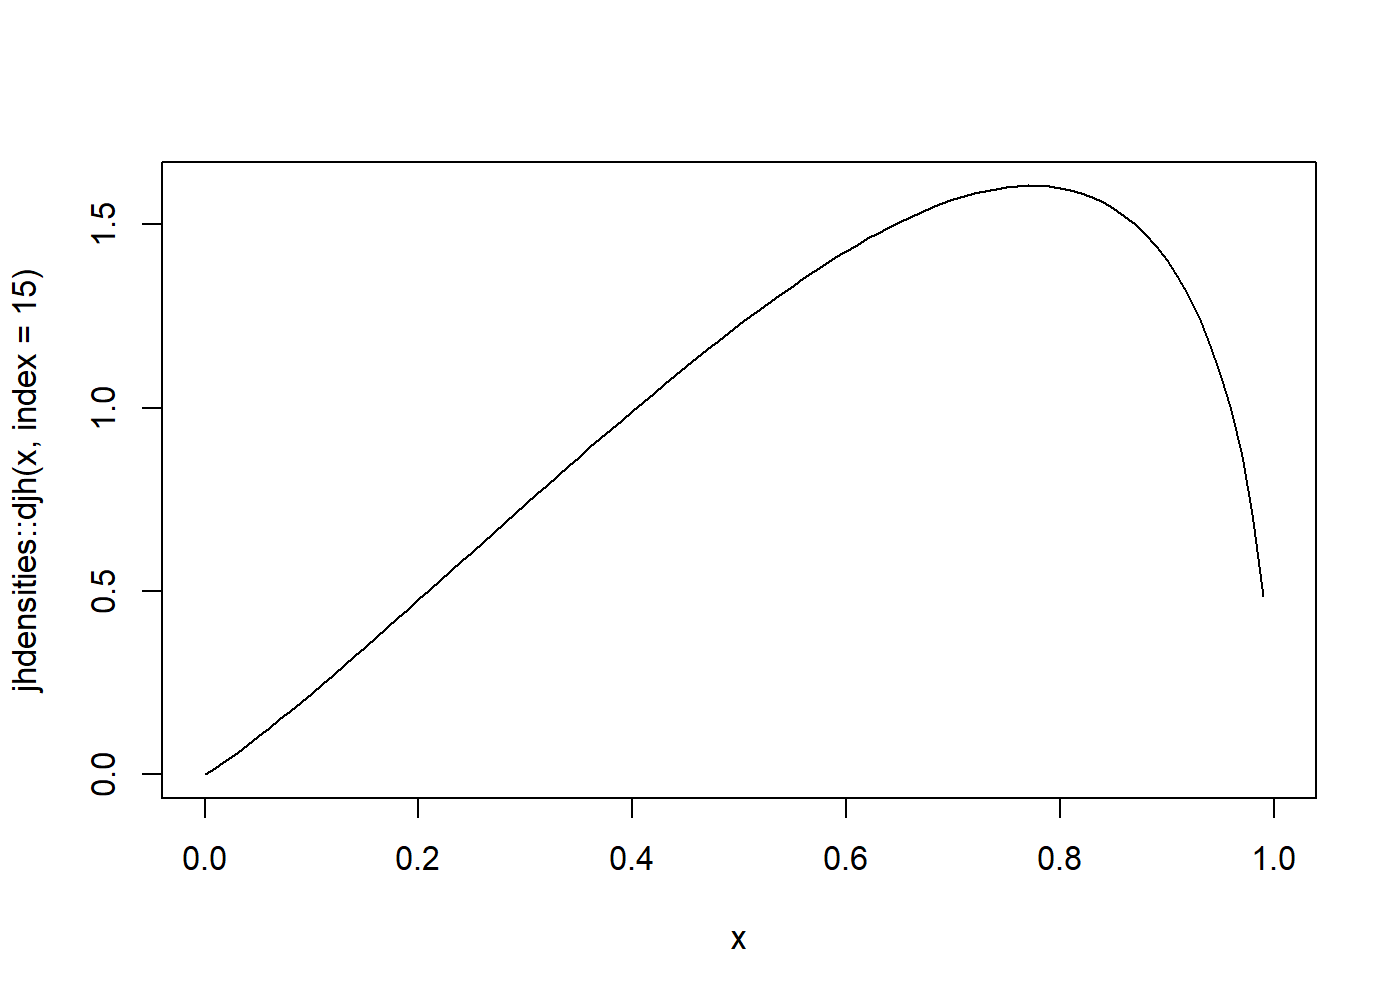
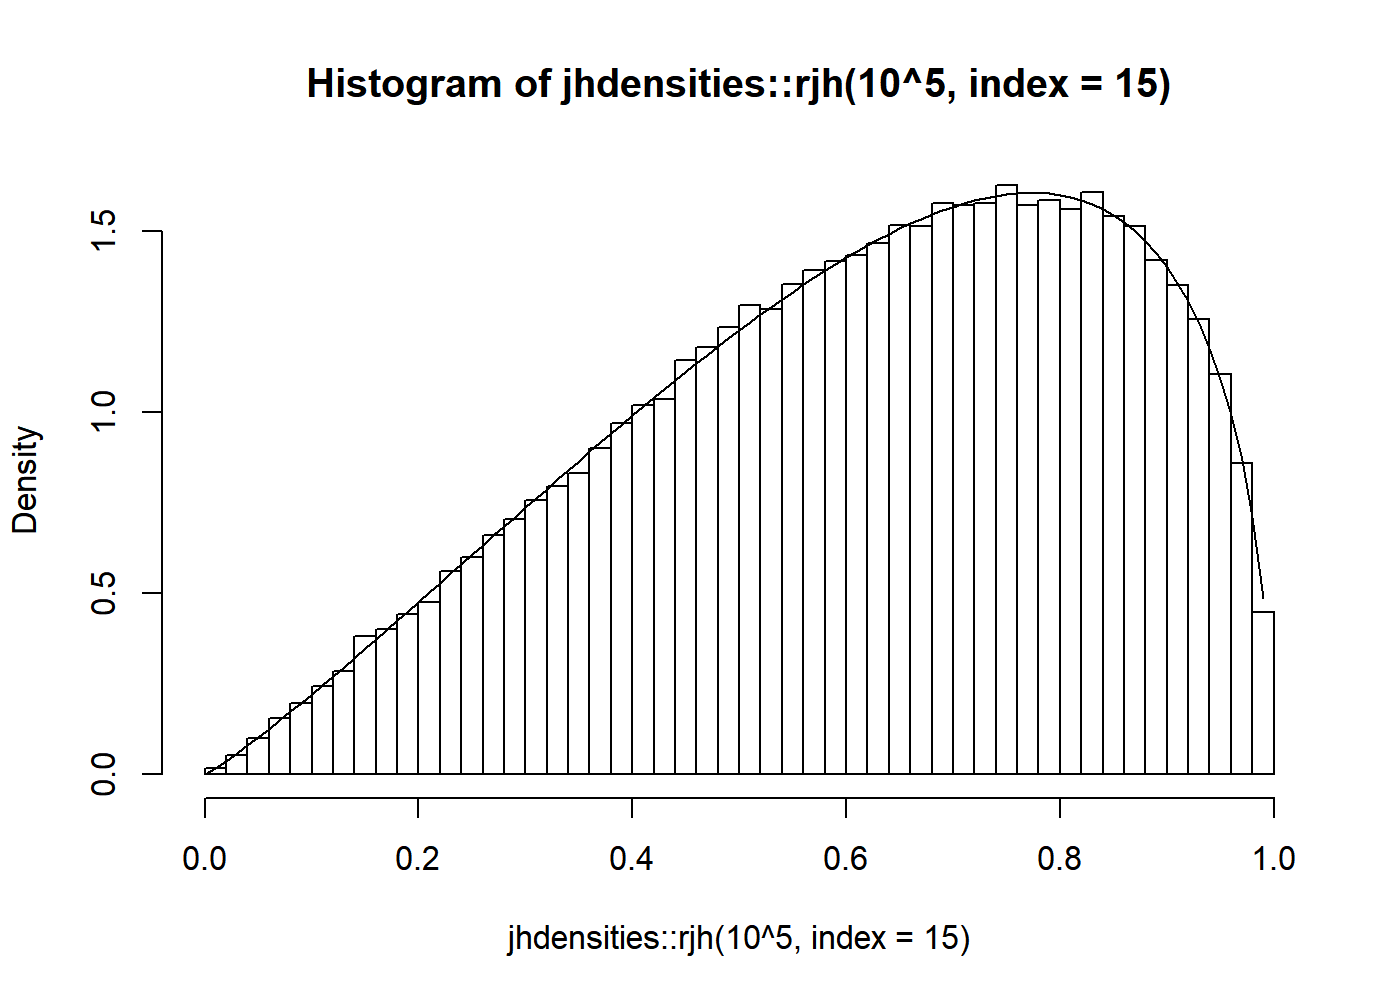
:books: README update
* Added rjh
* Added links to J&H papers.

diff --git a/README.md b/README.md
@@ -37,7 +37,8 @@ Jones and Henderson (2007b).
 
 ``` r
 x = seq(0, 1, by = 0.01)
-plot(x, jhdensities::djh(x, index = 15), type = "l")
+hist(jhdensities::rjh(10^5, index = 15), freq = FALSE, breaks = "FD")
+lines(x, jhdensities::djh(x, index = 15), type = "l")
 ```
 
 <img src="man/figures/README-unnamed-chunk-2-1.png" width="750px" />
@@ -54,7 +55,9 @@ Conduct](https://www.contributor-covenant.org/version/1/4/code-of-conduct.html).
 
   - Jones, M. C., & Henderson, D. A. (2007a). Miscellanea kernel-type
     density estimation on the unit interval. Biometrika, 94(4), 977-984.
+    [Link.](https://www.jstor.org/stable/20441430)
 
   - Jones, M. C., & Henderson, D. A. (2007b). Kernel-Type Density
     Estimation on the Unit Interval,” Statistics Group Technical Report,
     the Open University
+    [Link.](https://pdfs.semanticscholar.org/b1b9/474ba8930f25cf2b481cf89e31888a26f6ec.pdf)
